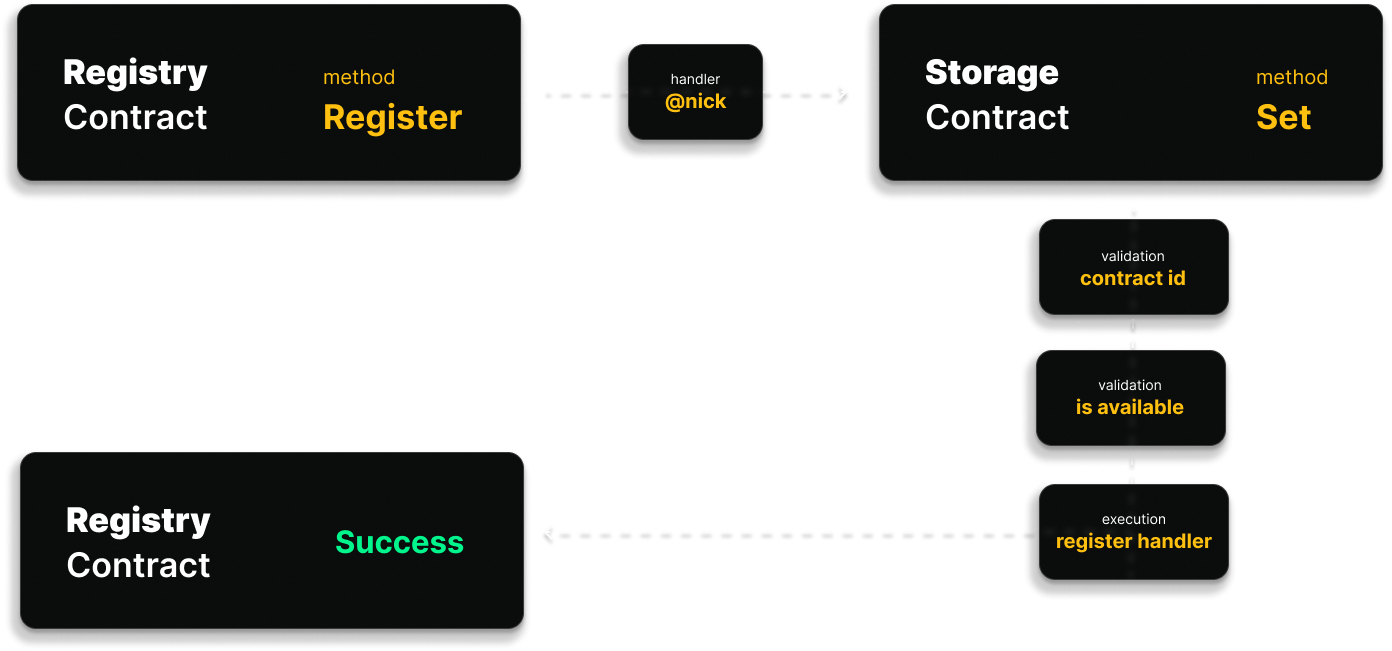
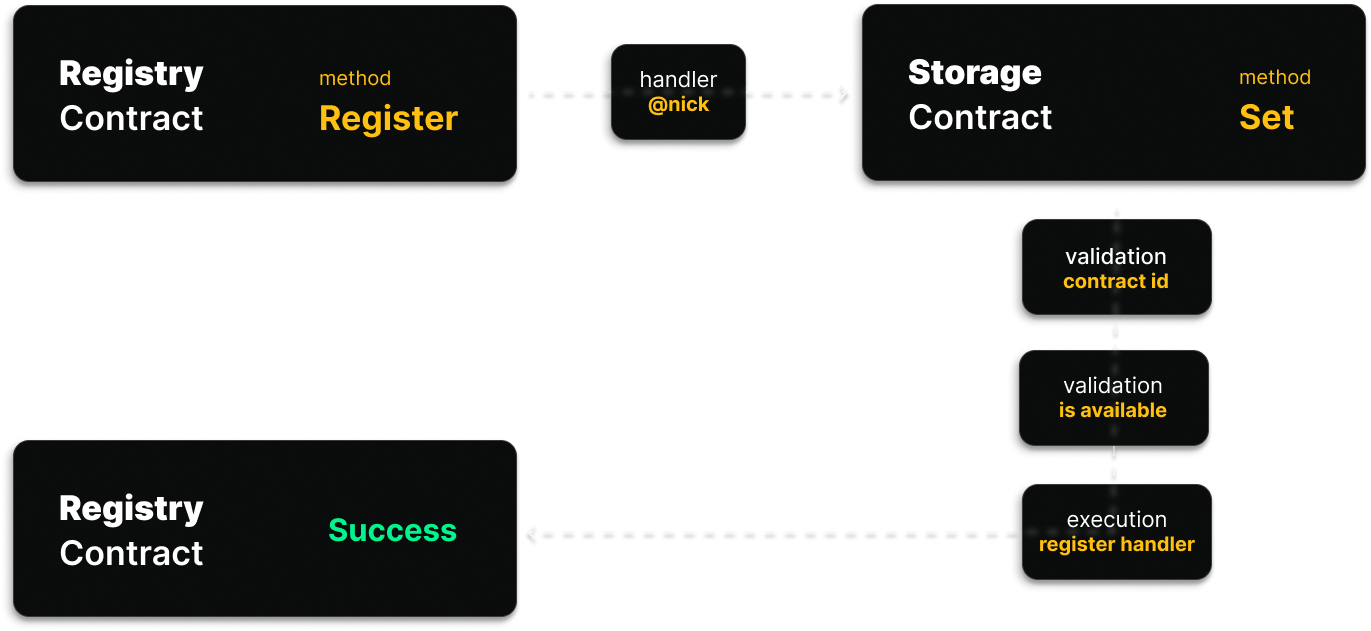
fix(design): adjusted design hotfix

diff --git a/apps/docs/components/useWarning.tsx b/apps/docs/components/useWarning.tsx
@@ -1,0 +1,18 @@
+// biome-ignore lint/correctness/noUnusedImports: <explanation>
+import React from 'react';
+
+export const Warning = ({ children }) => {
+  return (
+    <div
+      style={{
+        padding: '1em',
+        color: '#ffc010',
+        border: '1px solid #ffc01026',
+        backgroundColor: '#ffc0100d',
+        borderRadius: '5px',
+      }}
+    >
+      ⚠ IMPORTANT: {children}
+    </div>
+  );
+};

diff --git a/apps/docs/theme.config.tsx b/apps/docs/theme.config.tsx
@@ -32,7 +32,7 @@ const config: DocsThemeConfig = {
   },
   useNextSeoProps() {
     return {
-      titleTemplate: 'Bako ID SDK - %s',
+      titleTemplate: ' %s | Bako ID',
     };
   },
   feedback: {

diff --git a/apps/docs/src/pages/index.md b/apps/docs/src/pages/index.md
@@ -21,7 +21,7 @@ The Identity is owned by its owner, however, when using it, it is possible to ad
 | Owner    | Address of the identity owner       |
 | Resolver | Address for the identity resolution |
 
-## Handler prices
+<!-- ## Handler prices
 
 The identity price is calculated by the number of characters, for example, registering the identity `@now` will cost `0.005 ETH`.
 
@@ -33,4 +33,4 @@ Your `@` identity is not considered in the price calculation, only the subsequen
 | --------------- | :--------: |
 | 3 chars         | 0.005 ETH  |
 | 4 chars         | 0.001 ETH  |
-| 5 or more chars | 0.0002 ETH |
+| 5 or more chars | 0.0002 ETH | -->
